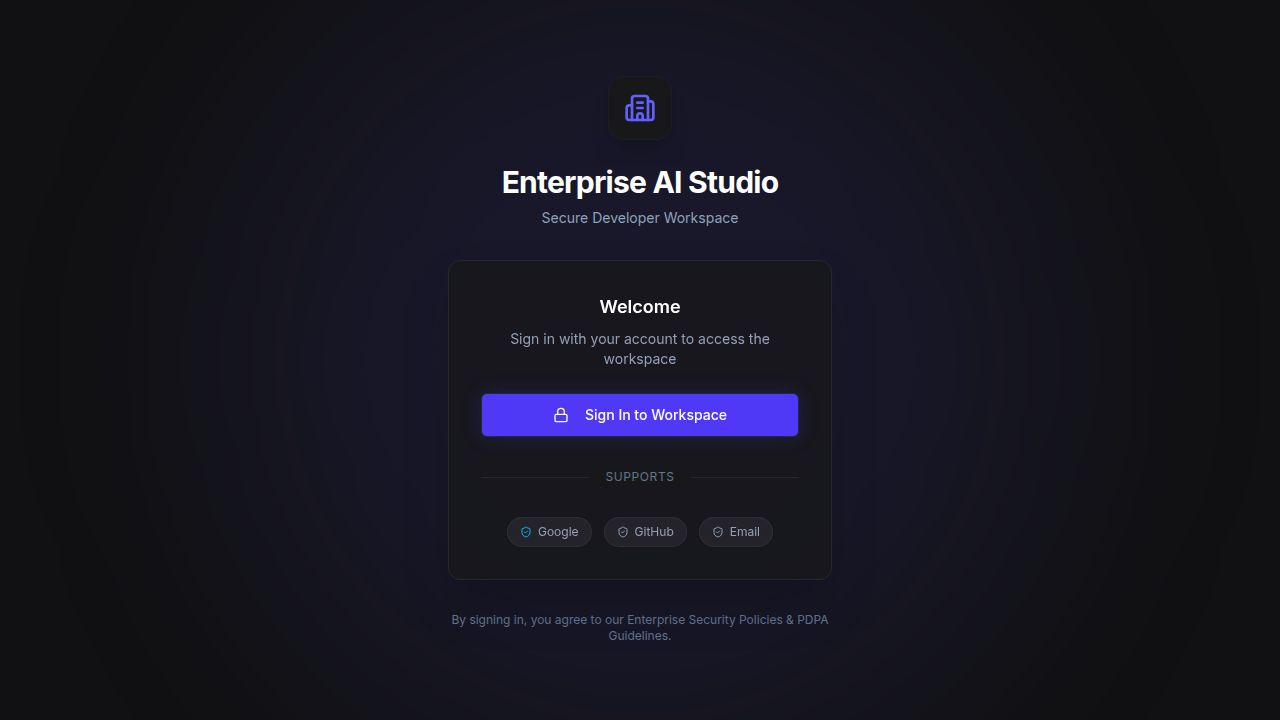
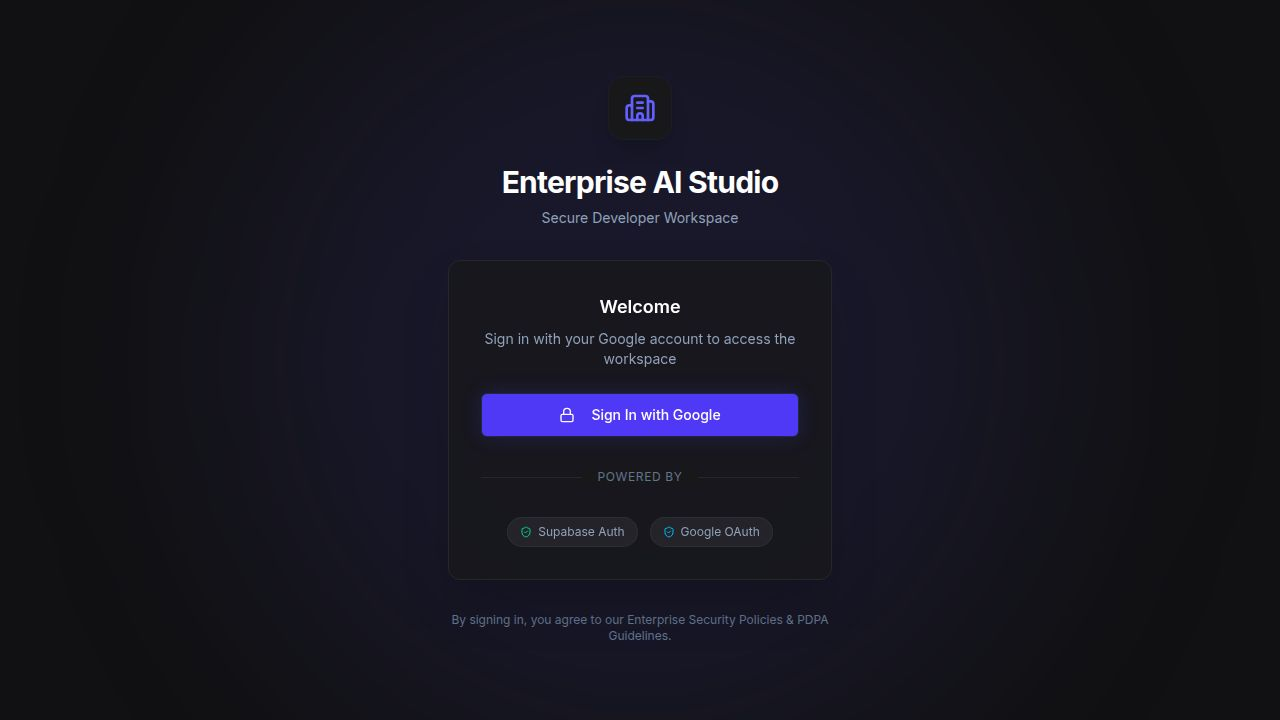
Update authentication and database connections to use Supabase
Migrate database connection strings and authentication middleware from Replit's local PostgreSQL and auth to Supabase, updating `drizzle.config.ts`, `server/db.ts`, and `server/supabase.ts`, and removing Supabase branding from the login page.

Replit-Commit-Author: Agent
Replit-Commit-Session-Id: ededba60-d2ac-4343-8521-d196ccf309bf
Replit-Commit-Checkpoint-Type: full_checkpoint
Replit-Commit-Event-Id: 93361f5f-301d-416a-8ac5-537c6fdcd610
Replit-Commit-Screenshot-Url: https://storage.googleapis.com/screenshot-production-us-central1/00177388-723f-43ba-ac25-b33b071824c2/ededba60-d2ac-4343-8521-d196ccf309bf/lWSAXqQ
Replit-Helium-Checkpoint-Created: true

diff --git a/server/db.ts b/server/db.ts
@@ -9,14 +9,17 @@ import { drizzle } from "drizzle-orm/node-postgres";
 import pg from "pg";
 import * as schema from "@shared/schema";
 
-if (!process.env.DATABASE_URL) {
+const databaseUrl = process.env.SUPABASE_DATABASE_URL || process.env.DATABASE_URL;
+
+if (!databaseUrl) {
   throw new Error(
-    "DATABASE_URL must be set. Add it to .env.local with your Supabase PostgreSQL connection string.",
+    "SUPABASE_DATABASE_URL or DATABASE_URL must be set.",
   );
 }
 
 export const pool = new pg.Pool({
-  connectionString: process.env.DATABASE_URL,
+  connectionString: databaseUrl,
+  ssl: databaseUrl.includes("supabase.co") ? { rejectUnauthorized: false } : undefined,
 });
 
 export const db = drizzle(pool, { schema });

diff --git a/drizzle.config.ts b/drizzle.config.ts
@@ -6,8 +6,10 @@ dotenv.config();
 
 import { defineConfig } from "drizzle-kit";
 
-if (!process.env.DATABASE_URL) {
-  throw new Error("DATABASE_URL must be set in .env.local");
+const databaseUrl = process.env.SUPABASE_DATABASE_URL || process.env.DATABASE_URL;
+
+if (!databaseUrl) {
+  throw new Error("SUPABASE_DATABASE_URL or DATABASE_URL must be set");
 }
 
 export default defineConfig({
@@ -15,6 +17,7 @@ export default defineConfig({
   schema: "./shared/schema.ts",
   dialect: "postgresql",
   dbCredentials: {
-    url: process.env.DATABASE_URL,
+    url: databaseUrl,
+    ssl: databaseUrl.includes("supabase.co") ? "prefer" : undefined,
   },
 });

diff --git a/client/src/pages/Login.tsx b/client/src/pages/Login.tsx
@@ -46,7 +46,7 @@ export default function Login() {
 
             <div className="flex items-center justify-center gap-3 text-xs text-slate-400">
               <span className="flex items-center gap-1.5 bg-white/5 px-3 py-1.5 rounded-full border border-white/5">
-                <ShieldCheck size={12} className="text-emerald-400" /> Supabase Auth
+                <ShieldCheck size={12} className="text-emerald-400" /> Secure Auth
               </span>
               <span className="flex items-center gap-1.5 bg-white/5 px-3 py-1.5 rounded-full border border-white/5">
                 <ShieldCheck size={12} className="text-sky-400" /> Google OAuth

diff --git a/server/supabase.ts b/server/supabase.ts
@@ -1,9 +1,3 @@
-import dotenv from "dotenv";
-import path from "path";
-
-dotenv.config({ path: path.resolve(process.cwd(), ".env.local") });
-dotenv.config();
-
 import { createClient } from "@supabase/supabase-js";
 
 const supabaseUrl = process.env.VITE_SUPABASE_URL;
@@ -11,7 +5,7 @@ const supabaseServiceKey = process.env.SUPABASE_SERVICE_KEY;
 
 if (!supabaseUrl || !supabaseServiceKey) {
   console.warn(
-    "Missing Supabase env vars. Set VITE_SUPABASE_URL and SUPABASE_SERVICE_KEY in .env.local",
+    "Missing Supabase env vars. Set VITE_SUPABASE_URL and SUPABASE_SERVICE_KEY.",
   );
 }
 
